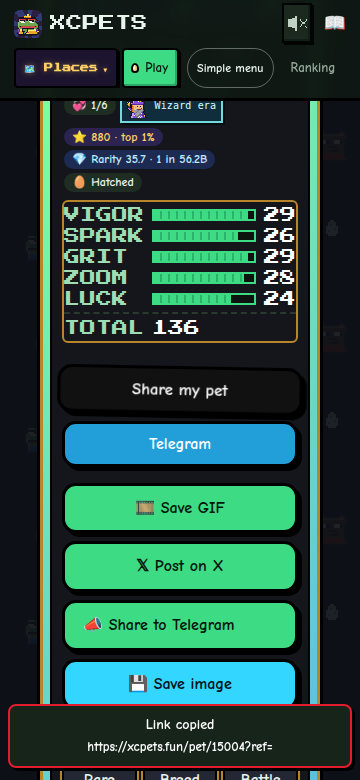
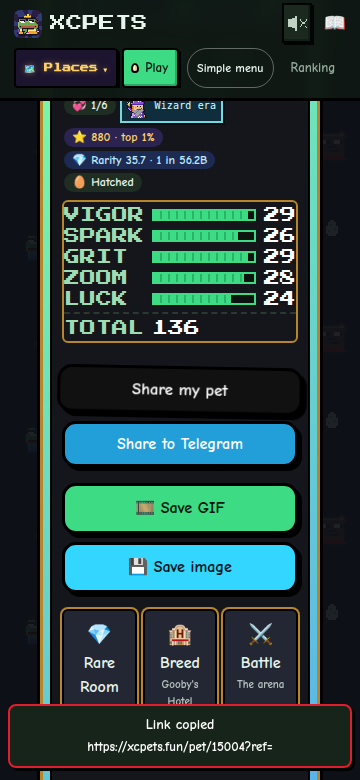
Keep one share pair on the pet page and the moments.
Share my pet and Share to Telegram both use /pet/<id>?ref=. Save GIF and Save image stay. The extra Post on X and Telegram buttons are gone.

diff --git a/tools/share-shots.js b/tools/share-shots.js
@@ -52,7 +52,7 @@ async function bootPet(page, url) {
   try {
     const page = await browser.newPage();
     page.setDefaultTimeout(180000);
-    await page.setViewport({ width: 1280, height: 900, deviceScaleFactor: 1 });
+    await page.setViewport({ width: 1280, height: 1300, deviceScaleFactor: 1 });
     await bootPet(page, origin + '/pet/15004?ref=');
     report.pretty = await page.evaluate(function () {
       var t = document.getElementById('title').textContent;
@@ -60,7 +60,16 @@ async function bootPet(page, url) {
       var gear = (document.getElementById('gear') || {}).innerText || '';
       return { href: location.pathname + location.search, title: t, facts: facts.slice(0, 180), gear: gear.slice(0, 160), share: !!document.querySelector('.sh-row'), dead: document.body.innerText.indexOf('Died of neglect') >= 0 };
     });
-    await page.screenshot({ path: path.join(OUT, 'pet-desktop.png') });
+    report.buttons = await page.evaluate(function () {
+      return { x: document.querySelectorAll('.sh-x, .xshare').length, tg: document.querySelectorAll('.sh-tg, .tgshare').length, labels: Array.prototype.map.call(document.querySelectorAll('.petshare .btn, .petshare .sh-btn'), function (b) { return b.textContent; }) };
+    });
+    await page.evaluate(function () { var el = document.querySelector('.pcard-wrap'); if (el) scrollTo(0, el.getBoundingClientRect().top + scrollY - 20); });
+    await sleep(300);
+    var desk = await page.evaluate(function () {
+      var r = document.querySelector('.pcard-wrap').getBoundingClientRect();
+      return { x: Math.round(Math.max(0, r.left - 20)), y: Math.round(Math.max(0, r.top - 12)), width: Math.round(r.width + 40), height: Math.round(Math.min(innerHeight - 8, r.bottom - r.top + 24)) };
+    });
+    await page.screenshot({ path: path.join(OUT, 'pet-desktop.png'), clip: desk });
     await page.setViewport({ width: 412, height: 820, deviceScaleFactor: 1 });
     await sleep(400);
     const card = await page.$('#petCard, .pcard-wrap, #cv');
@@ -109,8 +118,10 @@ async function bootPet(page, url) {
       V2Motel.eggPop(w, kid); window.__breed = kid && kid.id;
     });
     await page.waitForSelector('#eggPop .sh-row[data-sh="breed"]', { timeout: 10000 });
+    await page.evaluate(function () { document.querySelectorAll('.tut-tip,.tut-ov').forEach(function (n) { n.remove(); }); });
     await sleep(250);
-    await page.screenshot({ path: path.join(OUT, 'breed-modal-412.png') });
+    const egg = await page.$('#eggPop .ep-box');
+    await (egg || page).screenshot({ path: path.join(OUT, 'breed-modal-412.png') });
     report.breed = await page.evaluate(function () { return { id: window.__breed, label: document.querySelector('#eggPop .sh-x').textContent }; });
 
     await page.evaluate(function () {

diff --git a/js/v2-render.js b/js/v2-render.js
@@ -1883,7 +1883,8 @@
   function btn(cls, label, aria, fn, p) { var b = document.createElement('button'); b.type = 'button'; b.className = 'btn ' + cls; b.textContent = label; b.title = aria; b.setAttribute('aria-label', aria); b.setAttribute('data-pet', p.id); b.onclick = function () { fn(p); }; return b; }
   function imgButton(p) { return btn('imgshare savegif', '🎞 Save GIF', 'Download the pet\'s dancing GIF', saveGif, p); } /* P7: was 'Share image' (share sheet / file save); now a direct GIF download */
   function shareRow(p) { var d = document.createElement('p'); d.className = 'petshare'; d.setAttribute('data-pet', p.id);
-    [imgButton(p), btn('xshare', '𝕏 Post on X', 'Post on X with the pet card image', postX, p), button(p), btn('ghost saveimg', '💾 Save image', 'Download the pet card image', saveImage, p)].forEach(function (b, i) { if (i) d.appendChild(document.createTextNode(' ')); d.appendChild(b); });
+    /* Share my pet + Share to Telegram are the one pair in js/v2-share.js (the /pet/<id>?ref= link). This row keeps the file saves. */
+    [imgButton(p), btn('ghost saveimg', '💾 Save image', 'Download the pet card image', saveImage, p)].forEach(function (b, i) { if (i) d.appendChild(document.createTextNode(' ')); d.appendChild(b); });
     return d; }
   window.XCPShare = { saveGif: saveGif, shareTelegram: shareTelegram, cardCanvas: cardCanvas, shareImage: shareImage, postX: postX, saveImage: saveImage, shareRow: shareRow };
   var TC = ['common', 'uncommon', 'rare', 'legendary'];

diff --git a/js/v2-share.js b/js/v2-share.js
@@ -100,7 +100,7 @@ function start(root, api) {
       return b;
     }
     box.appendChild(btn('sh-x', 'Share my pet', 'x'));
-    box.appendChild(btn('sh-tg', 'Telegram', 'tg'));
+    box.appendChild(btn('sh-tg', 'Share to Telegram', 'tg'));
     box.addEventListener('click', function (e) { e.stopPropagation(); });
     return box;
   }

diff --git a/design/share-links/NOTES.md b/design/share-links/NOTES.md
@@ -40,7 +40,7 @@ A weekly run is enough. A brand-new hatch is not in the set until the next run, 
 
 ## Share button
 
-`Share my pet` copies `https://xcpets.fun/pet/<id>?ref=` and opens `https://x.com/intent/post` with the pet text and that URL. `Telegram` does the same with `https://t.me/share/url`.
+`Share my pet` copies `https://xcpets.fun/pet/<id>?ref=` and opens `https://x.com/intent/post` with the pet text and that URL. `Share to Telegram` does the same with `https://t.me/share/url`. That is the only share pair. Save GIF and Save image stay on the pet page.
 
 It is on the pet page, the hatch review, the breed egg popup, and the Mythic scene. The phone toast is anchored to the left and right edges (same idea as the toast-cutoff fix) so the URL is not shifted off a 360px or 412px screen.
 
